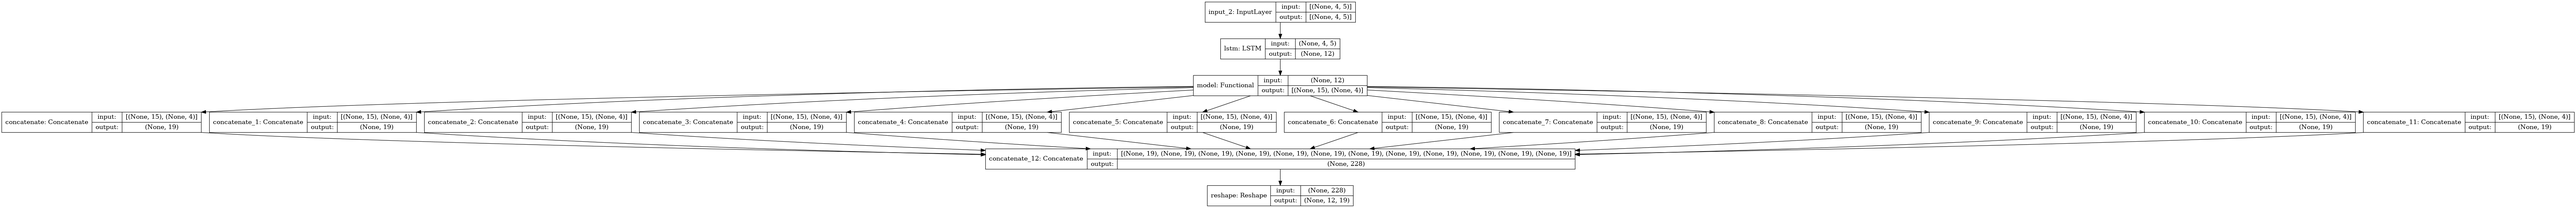
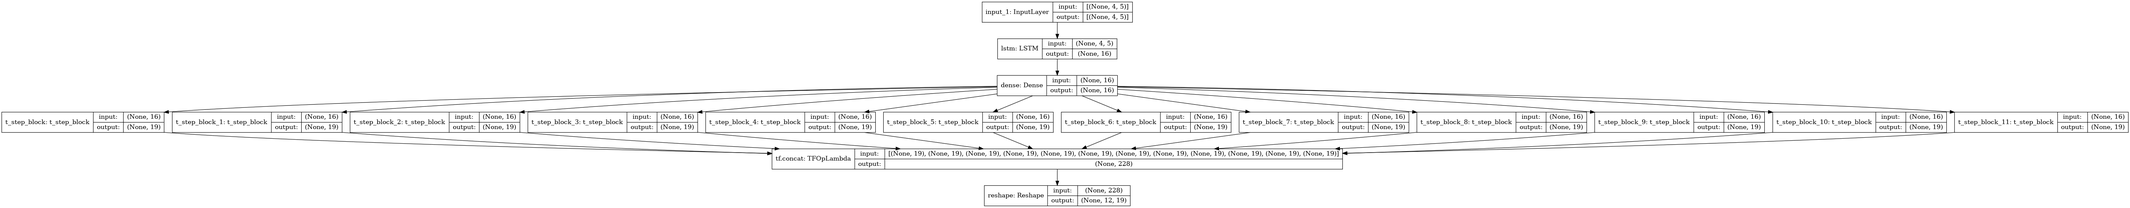
[CHK] Architecture corrections

diff --git a/model/lstm.py b/model/lstm.py
@@ -6,7 +6,7 @@ import tensorflow as tf
 
 from tensorflow import keras
 from keras import Model
-from keras.layers import Dense, Input, Concatenate, Reshape
+from keras.layers import Dense, Input, Layer, Reshape
 from keras.layers.recurrent import LSTM
 from keras.utils.vis_utils import plot_model
 
@@ -21,11 +21,23 @@ from utils.utils import (
 CAVEAT: Using n + 1 cameras
 '''
 
-def combined_loss_fn(Y, Y_pred):
+class t_step_block(Layer):
+    def __init__(self, num_cams=NUM_CAMS, activation='softmax'):
+        super(t_step_block, self).__init__()
+        self.classifier = Dense(units=num_cams, activation=activation)
+        self.regressor = Dense(units=4)
+
+    def call(self, inputs):
+        camera_classes = self.classifier(inputs)
+        positions = self.regressor(inputs)
+        return tf.concat([camera_classes, positions], axis=1)
+
+
+def combined_loss_fn(Y, Y_pred, num_cams=NUM_CAMS):
     CCE_loss = tf.keras.losses.CategoricalCrossentropy()
     MSE_loss = tf.keras.losses.MeanSquaredError()
-    agg_loss = 10 * CCE_loss(Y[:, 0: NUM_CAMS + 4], Y_pred[:, 0: NUM_CAMS + 4])  \
-                + MSE_loss(Y[:, NUM_CAMS + 4:], Y_pred[:, NUM_CAMS + 4:])
+    agg_loss = 10 * CCE_loss(Y[:, :, 0: num_cams], Y_pred[:, :, 0: num_cams])  \
+                + MSE_loss(Y[:, :, num_cams:], Y_pred[:, :, num_cams:])
     return(agg_loss)
 
 
@@ -40,26 +52,24 @@ def load_model(name, path=MODEL_PATH):
 def define_model(n_input_tsteps=N_INPUT_TSTEPS, n_output_tsteps=N_OUTPUT_TSTEPS, num_cams=NUM_CAMS):
     """Define the model architecture"""
     #TO-DO: try adding a common dense layer; vary the lstm output shape;
-    intermediate_layer = Input(shape=(n_output_tsteps))
-    classifier = Dense(units=num_cams, activation='softmax')(intermediate_layer)
-    regressor = Dense(units=4)(intermediate_layer)
-    repeated_sub_unit = Model(intermediate_layer, [classifier, regressor])
-    repeated_sub_unit.compile(optimizer='adam', 
-                loss = {'classifier':'categorical_crossentropy', 'regressor':'mse'},
-                loss_weights = {'classifier':1., 'regressor':0.5})
-    
     # Main network
     input_layer = Input(shape=(n_input_tsteps, 5))
-    intermediate_layer = LSTM(units=n_output_tsteps, input_shape=(n_input_tsteps, 5), \
+    lstm_layer = LSTM(units=16, input_shape=(n_input_tsteps, 5), \
                             activation="tanh", recurrent_activation="tanh")(input_layer)
-    downstream_network = [Concatenate()(repeated_sub_unit(intermediate_layer)) for _ in range(n_output_tsteps)]
-    merge_layer = Reshape((n_output_tsteps, num_cams + 4))(Concatenate()(downstream_network))
+    intermediate_layer = Dense(units=16, activation="relu")(lstm_layer)
+    
+    Y = []
+    for _ in range(n_output_tsteps):
+        parallel_network = t_step_block(num_cams=num_cams)
+        Y.append(parallel_network(intermediate_layer))
+    merge_layer = Reshape((n_output_tsteps, num_cams + 4))(
+        tf.concat(Y, axis=1))
+    # merge_layer = Reshape((len(Y), num_cams + 4))(tf.concat(Y, axis=0))
     model = Model(input_layer, merge_layer)
     model.compile(optimizer='adam', loss=combined_loss_fn, metrics=['cosine_similarity'])
 
     # summarize layers
     print(f"Model summary:\n{model.summary()}")
-    print(f"Sub_unit summary:\n{repeated_sub_unit.summary()}")
     plot_model(model, to_file="model.png", show_shapes=True)
     return model
 
@@ -91,13 +101,14 @@ def train_model(model=None, dataset=None):
     results = model.evaluate(X_test, Y_test_encoded, batch_size=128)
     print("Results")
     print(results)
-    predictions = model.predict(X_test)
-    y_pred = tensor_decode_one_hot(predictions.astype(int))
-    print(y_pred[:, :, 0])
+    model.predict(X_test)
     return model, results, logs
 
 
-def predict(model, X_test, Y_test_encoded):
+def predict(model, X_test, Y_test_encoded, debug=False):
     predictions = model.predict(X_test)
+    y_pred = tensor_decode_one_hot(predictions.astype(int))
+    if debug:
+        print(y_pred[:, :, 0])
+        print(tensor_decode_one_hot(Y_test_encoded)[:, :, 0])
     return predictions
-    #To-Do: tensor2trajectory -> visualize

diff --git a/run.py b/run.py
@@ -9,26 +9,26 @@ model = lstm.load_model(name="prototype.ml")
 from global_config.global_config import TENSOR_DATA_PATH
 from loader.ETL import tensor2trajectory
 from loader.loader import generate_tensors
-from utils.utils import load_pkl
+from utils.utils import load_pkl, tensor_decode_one_hot, tensor_encode_one_hot
 
 import numpy as np
 import os
 
 obj_trajectories = load_pkl(os.path.join(TENSOR_DATA_PATH, "all_trajectories.pkl"))
-key = list(obj_trajectories.keys())[100]
+key = list(obj_trajectories.keys())[47]
 x, y = generate_tensors(trajectories_dict={key: obj_trajectories[key]}, save_to_file=False)
-y_encoded = lstm.tensor_encode_one_hot(y)
+y_encoded = tensor_encode_one_hot(y)
 print(f"I/O shapes: ({x.shape}), ({y_encoded.shape})")
 y_pred_encoded = lstm.predict(model, x, y_encoded)
 
 # Plot predictions
 from visualizer.visualizer import project_trajectories
-y_pred = lstm.tensor_decode_one_hot(y_pred_encoded.astype(int))
+y_pred = tensor_decode_one_hot(y_pred_encoded.astype(int))
 print(f"Output details: {y_pred_encoded.shape} -> {y_pred.shape} -> {len(tensor2trajectory(y_pred))}")
 print(f"Ground truth details: {y_encoded.shape} -> {y.shape} -> {len(tensor2trajectory(y))}")
 project_trajectories([tensor2trajectory(y), tensor2trajectory(y_pred)])
-print(y_pred[:, :, 1])
-print(y[:, :, 1])
+print(y_pred[:, :, 0])
+print(y[:, :, 0])
 exit()
 
 
